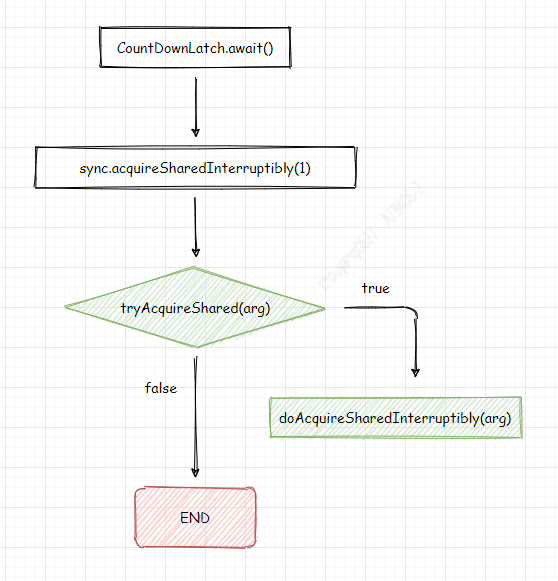
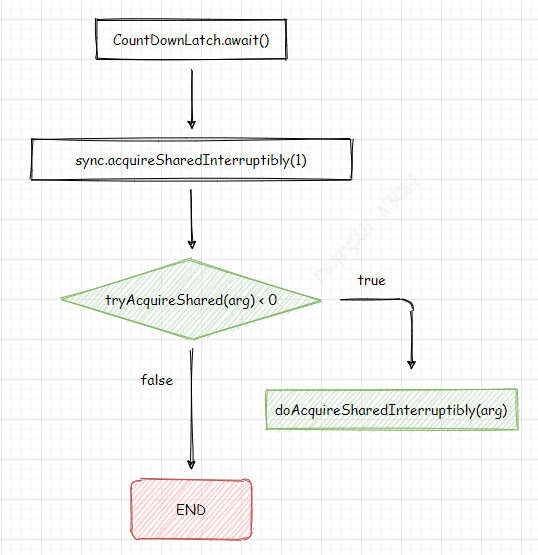
add

Changed region(s): [[0.0595, 0.0306, 0.6543, 0.9802], [0.4758, 0.4901, 0.9814, 0.7964]]

diff --git a/Java/Java CountDownLatch.md b/Java/Java CountDownLatch.md
@@ -125,26 +125,26 @@ public CountDownLatch(int count) {
 }
 ```
 
-`2.1 Sync UML图`
+`2.1 Sync UML图`      
 ![Work Thread](images/JUC_CountDownLatch03.png)
 
 
 ## 3. await()
 `3.1 await()流程图`, 显示await()方法调用`AbstractQueuedSynchronizer的tryAcquireShared(arg)和doAcquireSharedInterruptibly(arg)`。 **接下来分析这两个方法**。
 
-`3.1 await()流程图`
+`3.1 await()流程图`     
 ![Work Thread](images/JUC_CountDownLatch04.png)
 
 ### 3.1 tryAcquireShared(arg)
-getState()方法返回的是`state`字段值，由`章节2`可知，state的值是通过CountDownLatch的构造方法赋值的。
+getState()方法返回的是`state`字段值，由`章节2`可知，state的值是通过CountDownLatch的构造方法赋值的。 在`章节1 1.1代码中` 传入的Count是3，state=3; 可知**tryAcquireShared()仅是判断state值是否等于0，若等于返回1,否则返回-1**。 所以将state=3，代入方法返回的是-1，因为小于0，所以会继续调用doAcquireSharedInterruptibly(arg)。
 `AbstractQueuedSynchronizer.tryAcquireShared(arg)`
 ```java
 protected int tryAcquireShared(int acquires) {
     return (getState() == 0) ? 1 : -1;
 }
 ```
-
-
+### 3.2 doAcquireSharedInterruptibly(arg)
+在doAcquireSharedInterruptibly()方法中
 `AbstractQueuedSynchronizer.doAcquireSharedInterruptibly(arg)`
 ```java
 private void doAcquireSharedInterruptibly(int arg)
@@ -214,5 +214,3 @@ private Node enq(final Node node) {
 ## CountDown()
 
 
-
-https://blog.csdn.net/qq_34978129/article/details/106863621?utm_medium=distribute.pc_relevant.none-task-blog-2~default~baidujs_title~default-0.control&spm=1001.2101.3001.4242
